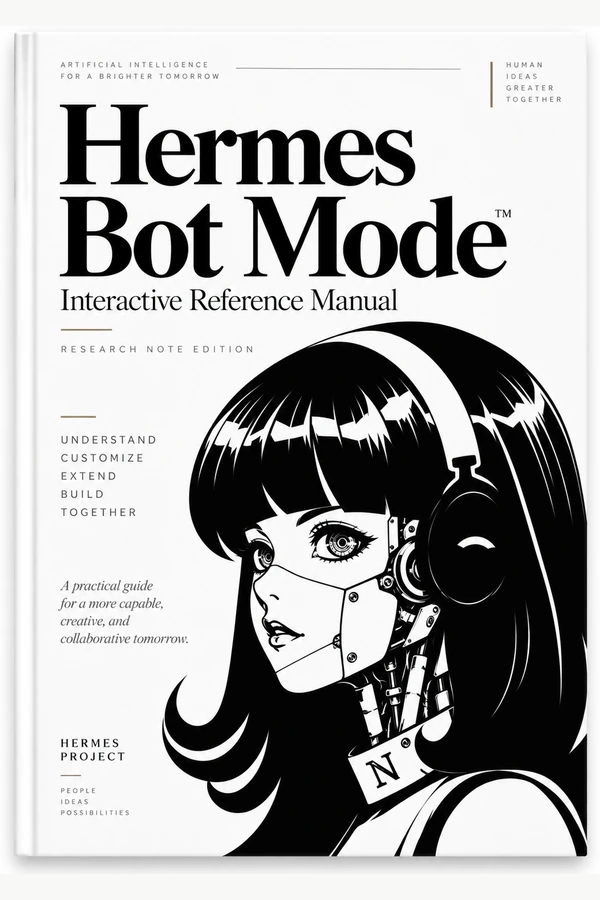
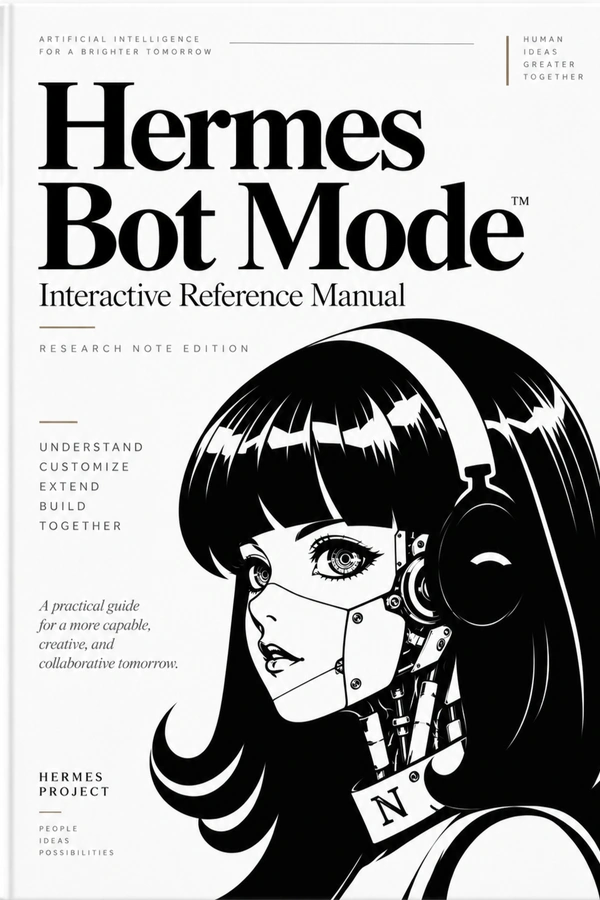
Replace Hermes Bot Mode reading cover

diff --git a/tests/test_hermes_bot_mode_reading.py b/tests/test_hermes_bot_mode_reading.py
@@ -12,7 +12,7 @@ BOOK_ID = "hermes-bot-mode-interactive-manual"
 HTML_PATH = ROOT / "hermes-bot-mode-interactive-manual.html"
 COVER_PATH = ROOT / "assets" / "covers" / "custom" / f"{BOOK_ID}.webp"
[3 lines of base64/hex data omitted]
 PROHIBITED_PUBLIC_RE = re.compile(
     "|".join(
         [
@@ -92,7 +92,12 @@ class HermesBotModeReadingTests(unittest.TestCase):
         self.assertGreater(COVER_PATH.stat().st_size, 30_000)
         template = ROOT / "templates" / "hermes-bot-mode-interactive-manual-cover.template.md"
         self.assertTrue(template.is_file())
-        self.assertIn(COVER_SOURCE_SHA256, template.read_text(encoding="utf-8"))
+        template_text = template.read_text(encoding="utf-8")
+        self.assertIn(COVER_SOURCE_SHA256, template_text)
+        self.assertIn("fill scale", template_text)
+        self.assertIn("center-crop", template_text)
+        self.assertIn("no padding", template_text)
+        self.assertIn("no added white border", template_text)
 
 
 if __name__ == "__main__":

diff --git a/docs/SESSION_HANDOFF.md b/docs/SESSION_HANDOFF.md
@@ -1,49 +1,60 @@
 # Library Session Handoff
 
-Updated: 2026-09-10T22:43:17+07:00
+Updated: 2026-09-10T23:11:34+07:00
 
 ## Current state
 
 - Project: The Knowledge Shelf at `https://hermes2545.github.io/`.
-- Branch: `main`; latest published content commit is `5f6d761e57fa874c7c1cf9f586650f80023767f1`; a documentation follow-up may be newer.
-- Latest published work: Reading Shelf cover-peek restored to the owner-supplied `message.txt` CSS 3D contract, then squared after owner feedback that the effect works but book corners should not be rounded.
-- Prepared v8 removes the `.is-open` JavaScript hover fallback entirely and returns the effect to CSS-only hover/focus behavior.
-- Prepared v8 contract: stable `.book-cover-wrap` hover area, separate `.book-cover-volume::before` stationary paper block, only `.book-cover` rotates from the left spine by `rotateY(-24deg)`, `perspective: 1100px`, `1.05s cubic-bezier(.42, 0, .2, 1)` timing, square/no-radius book corners (`border-radius: 0` on visible cover, paper block, and cover-link focus outline), keyboard focus, and `prefers-reduced-motion` suppression.
-- Reading template/generated index cache-bust both `reading-library.css` and `library.js` with `v=reading-cover-hover-v8` so browsers drop the broken v5/v6/v7 assets.
-- Publication verification for commit `5f6d761`: public and private remote HEADs matched, Production HTTP hashes matched Local for `index.html`, `assets/css/reading-library.css`, and `assets/js/library.js`, and Production Playwright desktop/mobile confirmed square corners plus the working cover-peek animation.
+- Branch: `main`; latest published content commit remains `5f6d761e57fa874c7c1cf9f586650f80023767f1` unless a newer approved push happens after this handoff.
+- Latest local work: replaced the Reading Shelf cover for **Hermes Bot Mode · Interactive Reference Manual** using the owner-supplied PNG attachment.
+- Public push/publication has **not** been performed for this Reading cover replacement; explicit owner approval is still required.
+
+## Hermes Bot Mode cover replacement details
+
+- Stable catalog item preserved:
+  - ID: `hermes-bot-mode-interactive-manual`
+  - HTML href: `hermes-bot-mode-interactive-manual.html`
+  - Cover path: `assets/covers/custom/hermes-bot-mode-interactive-manual.webp`
+- Source cover attachment:
+  - Format/dimensions: 1003×1455 RGBA PNG
[1 lines of base64/hex data omitted]
+- Public cover derivative:
+  - Format/dimensions: EXIF-free 600×900 RGB WebP
[1 lines of base64/hex data omitted]
+  - Normalization: fill scale to 620×900, center-crop x=10..610 to 600×900; no padding, no added white border, no stretch, no text/color/design edits.
 
 ## Verification completed this session
 
-- TDD RED confirmed the regression failed while the code still contained `-42deg`/`.is-open`/document mouse fallback residue.
-- Focused tests passed after restoring the message.txt CSS contract and removing JS fallback residue.
-- Latest focused TDD check passed after square-corner update:
-  - `python -m unittest tests.test_build_catalog.HomepageBuildTests.test_reading_book_cover_uses_stable_css_3d_front_cover_peek tests.test_build_catalog.HomepageBuildTests.test_coffee_theme_is_loaded_only_by_the_reading_collection -v` → OK.
-- Full local gates passed after v8 square-corner update:
+- TDD RED:
+  - `python -m unittest tests.test_hermes_bot_mode_reading -v` failed before template/cover replacement because the new owner-supplied cover SHA was absent from the provenance file.
+- Focused GREEN:
+  - `python -m unittest tests.test_hermes_bot_mode_reading -v` → OK, 3 tests.
+- Full local gates:
   - `python -m unittest discover -s tests -v` → OK, 136 tests.
   - `python scripts/build_catalog.py --check` → current, 34 books.
   - `python scripts/build_audio_library.py --check` → current, 58 audio books.
   - `python scripts/build_app_library.py --check` → current, 9 apps.
   - `python scripts/build_gallery.py --check` → current, 8 artworks.
   - `git diff --check` → OK.
-- Local browser verification passed on desktop and mobile:
-  - 34 Reading cards and first card `งานของผม`.
-  - CSS hover on `.book-cover-wrap` opens to `matrix3d(0.913545...)`, matching `rotateY(-24deg)`.
-  - no `.is-open` residue in the generated page/script.
-  - `cardTransform: none`.
-  - cover, paper block, and cover-link focus radii verify as `0px`.
-  - paper block pseudo-element `z-index: -1`.
-  - transition includes `1.05s`.
-  - direct `perspective: 1100px`.
-  - zero horizontal overflow and no console/page errors.
-- Pre-share scan of intended public files found no private paths, cache IDs, token/private-key patterns, or other credential-like bytes.
+- Pre-share scan of intended public files passed: cover WebP, provenance template, focused test, log, and handoff contain no concrete local home path, image-cache ID, GitHub token, API-key, or private-key byte patterns.
+- Local Playwright shelf-card verification via a private QA script passed:
+  - desktop 1365×900 and mobile 390×900;
+  - 34 Reading cards;
+  - Hermes Bot Mode card index 2;
+  - cover path `assets/covers/custom/hermes-bot-mode-interactive-manual.webp`;
+  - natural image dimensions 600×900;
+  - no horizontal overflow;
+  - no console/page errors;
+  - card transform remains `none`, perspective remains `1100px`.
 
-## Private artifacts
+## Working tree / private artifacts
 
-- Local preview screenshots remain private/untracked and must not be staged.
-- Local private project workspace/cache remains untracked and must not be staged.
-
-## Remaining local state
-
-- Current v8 square-corner correction has been pushed and production-verified; documentation follow-up may need commit/push after this handoff update.
-- Temporary local HTTP server used for preview was killed.
-- Private workspace/cache directory remains untracked and must stay unstaged.
+- Modified public files:
+  - `assets/covers/custom/hermes-bot-mode-interactive-manual.webp`
+  - `templates/hermes-bot-mode-interactive-manual-cover.template.md`
+  - `tests/test_hermes_bot_mode_reading.py`
+  - `docs/wiki/log.md`
+  - `docs/SESSION_HANDOFF.md`
+- Untracked private workspace/cache directory remains present; do not stage it broadly.
+- Local preview screenshots/scripts were created in the private workspace for QA only and must remain private/untracked unless the owner asks to see them.
+- Temporary local HTTP server should be killed before final close if still running.

diff --git a/docs/wiki/log.md b/docs/wiki/log.md
@@ -178,3 +178,5 @@ tags: [library, changelog]
 - Locally restored the Reading Shelf cover-peek implementation to the owner-supplied `message.txt` CSS 3D contract after feedback that the v5/v6 attempts were wrong. The prepared v7 change removes the `.is-open` JavaScript fallback entirely, returns hover behavior to CSS only under `@media (hover: hover)`, rotates only `.book-cover` from the left spine by `rotateY(-24deg)`, restores the `1.05s cubic-bezier(.42, 0, .2, 1)` timing, keeps rectangular book corners (`1px 3px 3px 1px`) and the original thin stationary paper block (`z-index: -1`, `inset: 2px -7px 0 3px`), preserves `perspective: 1100px`, keyboard focus, reduced-motion suppression, 3px shelf clearance, and Reading-scoped selectors only. The Reading template cache-busts CSS/JS with `v=reading-cover-hover-v7`. TDD RED/GREEN, full 136-test gates, generated-page checks, `git diff --check`, pre-share scan, and local desktop/mobile browser checks passed; publication remains pending explicit push approval.
 - Locally squared the Reading Shelf book object after the owner confirmed the hover effect works but requested no rounded book corners. The prepared v8 change keeps the working CSS-only `rotateY(-24deg)` front-cover peek, stationary paper block, 3px shelf clearance, keyboard focus, and reduced-motion behavior, but sets the visible cover, paper-block pseudo-element, and cover-link focus outline radii to `0`; Reading assets are cache-busted with `v=reading-cover-hover-v8`. Focused RED/GREEN, full 136-test gates, all four generated-page drift checks, `git diff --check`, pre-share scan, and local Playwright desktop/mobile browser checks passed; browser verification confirmed 34 Reading cards, `coverRadius/paperRadius/focusRadius` all `0px`, hover `matrix3d(0.913545...)`, `cardTransform: none`, `perspective: 1100px`, 600×900 cover dimensions, zero overflow, and no console/page errors. Publication remains pending explicit push approval.
 - Published the squared Reading Shelf book-object correction in commit `5f6d761` after the owner explicitly approved `push`. Public and private remotes matched `5f6d761e57fa874c7c1cf9f586650f80023767f1`; Production HTTP hash read-back matched Local for `index.html`, `assets/css/reading-library.css`, and `assets/js/library.js` after propagation. Production Playwright desktop/mobile checks confirmed 34 Reading cards with `งานของผม` first, CSS/JS `reading-cover-hover-v8`, cover/paper/focus radii all `0px`, hover `matrix3d(0.913545...)`, `cardTransform: none`, `perspective: 1100px`, 600×900 cover dimensions, zero overflow, and no console/page errors.
+
[1 lines of base64/hex data omitted]

diff --git a/templates/hermes-bot-mode-interactive-manual-cover.template.md b/templates/hermes-bot-mode-interactive-manual-cover.template.md
@@ -1,8 +1,10 @@
 # Hermes Bot Mode Interactive Manual cover source
 
-Owner-supplied final cover normalized only for Reading shelf delivery.
+Owner-supplied replacement cover normalized only for Reading shelf delivery.
 
 - Source artifact: project-owner supplied image attachment
-- Source SHA-256: bd21f0264d1b57277c643dae8f5550dcf10c7a5aca801b89972cdea763b7cc2a
+- Source SHA-256: 4a18827d9bc397ad32ea09857f3b6c4bc7d935e5984f7e87416b9d1b753b231b
+- Source dimensions: 1003×1455 RGBA PNG
 - Public derivative: assets/covers/custom/hermes-bot-mode-interactive-manual.webp
-- Technical normalization: aspect-preserving contain on 600×900 RGB WebP canvas, metadata stripped; no crop, text edit, recolor, or retouch.
+- Public derivative SHA-256: f92982e0a4e9f003a2a4a40b765b3b8a62a0ea22e9411ec7b5d6b5f5a86f0064
+- Technical normalization: aspect-preserving fill scale to 620×900, center-crop x=10..610 to 600×900 RGB WebP, metadata stripped; no padding, no added white border, no text edit, recolor, retouch, or stretch.
